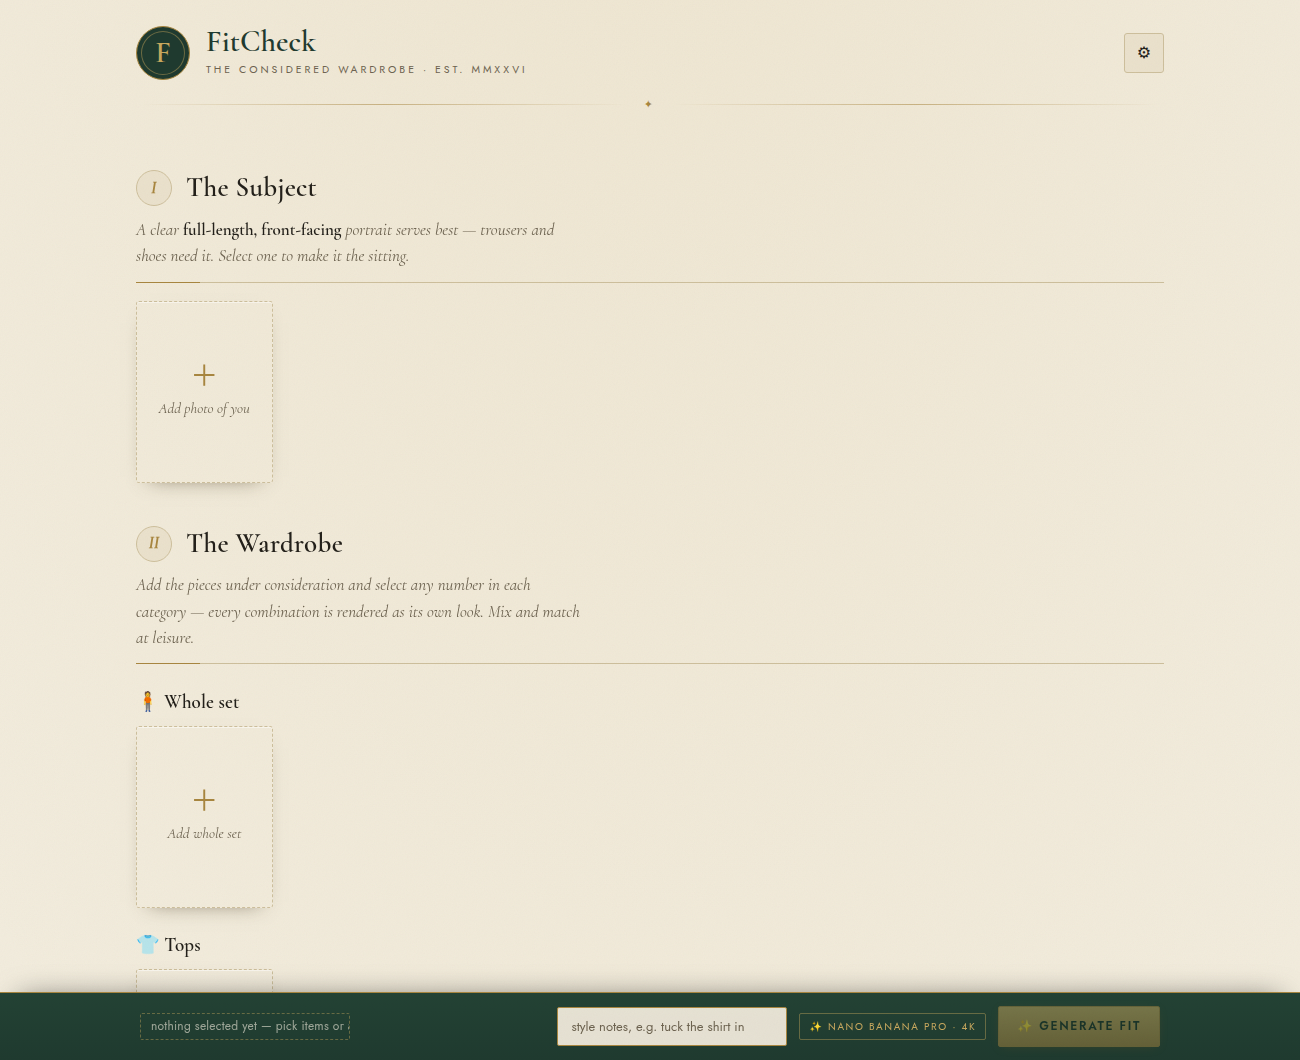
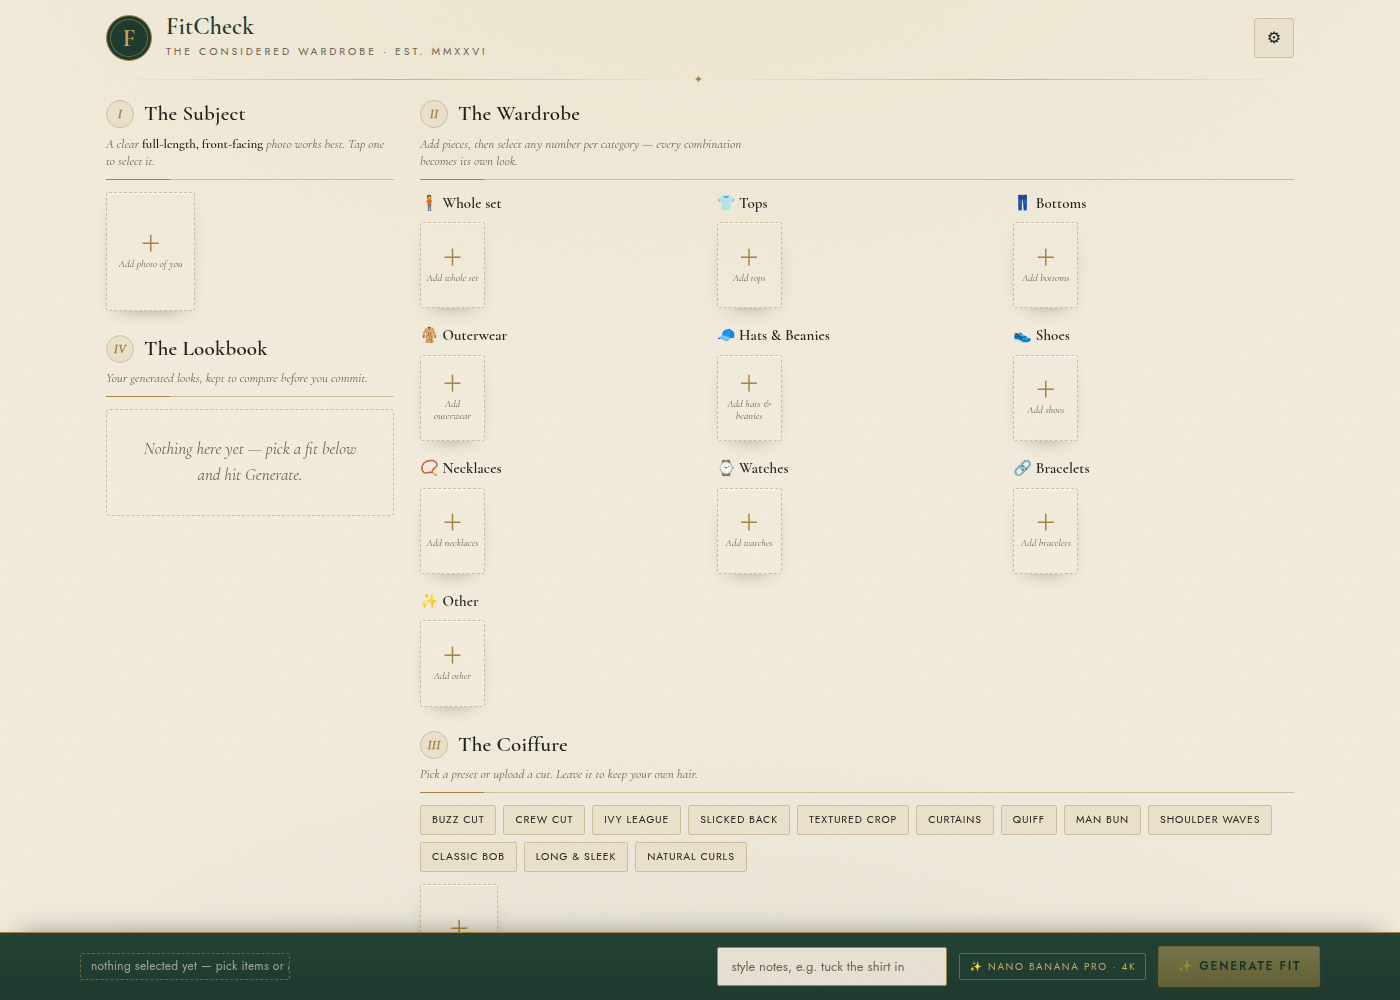
Compact the UI into a two-column dashboard
Everything now fits in roughly one screen instead of ~5:
- Two-column layout: left rail (Subject + Lookbook) beside a wider board
  (Wardrobe + Coiffure); stacks to one column under 900px, keeping the
  I->II->III->IV workflow order via flex order + display:contents.
- Wardrobe's 9 categories flow in a multi-column grid rather than stacking;
  smaller tiles, tighter spacing, smaller header/section headings/hints.
- Regenerated the README hero to match.

Claude-Session: https://claude.ai/code/session_01SWbWfnCS8gif7zMxp3UMgc

diff --git a/style.css b/style.css
@@ -45,18 +45,18 @@ strong { font-weight: 600; color: var(--ink); }
 /* ---------- top bar ---------- */
 .topbar {
   display: flex; align-items: center; justify-content: space-between;
-  padding: 26px 26px 12px; max-width: 1080px; margin: 0 auto;
+  padding: 15px 26px 8px; max-width: 1240px; margin: 0 auto;
 }
-.brand { display: flex; align-items: center; gap: 16px; }
+.brand { display: flex; align-items: center; gap: 14px; }
 .crest {
-  width: 54px; height: 54px; border-radius: 50%;
+  width: 46px; height: 46px; border-radius: 50%;
   display: grid; place-items: center;
-  font-family: var(--serif); font-weight: 600; font-size: 30px;
+  font-family: var(--serif); font-weight: 600; font-size: 25px;
   color: var(--gold-br); background: var(--green);
   border: 1px solid var(--gold);
-  box-shadow: inset 0 0 0 4px var(--green), inset 0 0 0 5px rgba(201,169,94,.45);
+  box-shadow: inset 0 0 0 3px var(--green), inset 0 0 0 4px rgba(201,169,94,.45);
 }
-.wordmark h1 { font-size: 30px; color: var(--green); font-weight: 600; line-height: 1; }
+.wordmark h1 { font-size: 24px; color: var(--green); font-weight: 600; line-height: 1; }
 .tagline {
   margin: 5px 0 0; color: var(--ink-soft);
   font-size: 10.5px; text-transform: uppercase; letter-spacing: .28em; font-weight: 400;
@@ -72,7 +72,7 @@ strong { font-weight: 600; color: var(--ink); }
 
 /* ---------- decorative rule ---------- */
 .rule-band {
-  max-width: 1080px; margin: 4px auto 6px; padding: 0 30px;
+  max-width: 1240px; margin: 2px auto 4px; padding: 0 30px;
   display: flex; align-items: center; gap: 16px;
 }
 .rule-band::before, .rule-band::after {
@@ -91,24 +91,26 @@ strong { font-weight: 600; color: var(--ink); }
 }
 .hidden { display: none !important; }
 
-/* ---------- sections ---------- */
-main { max-width: 1080px; margin: 0 auto; padding: 8px 26px; }
-section { margin: 40px 0; }
-.sec-head { margin-bottom: 18px; padding-bottom: 12px; border-bottom: 1px solid var(--line); position: relative; }
+/* ---------- layout ---------- */
+main { max-width: 1240px; margin: 0 auto; padding: 6px 26px; display: flex; gap: 26px; align-items: flex-start; }
+.rail { width: 288px; flex: none; display: flex; flex-direction: column; gap: 22px; }
+.board { flex: 1; min-width: 0; display: flex; flex-direction: column; gap: 22px; }
+section { margin: 0; }
+.sec-head { margin-bottom: 12px; padding-bottom: 8px; border-bottom: 1px solid var(--line); position: relative; }
 .sec-head::after { content: ''; position: absolute; left: 0; bottom: -1px; width: 64px; height: 1px; background: var(--gold); }
-.sec-head h2 { font-size: 27px; color: var(--ink); display: flex; align-items: center; gap: 14px; letter-spacing: .01em; }
+.sec-head h2 { font-size: 21px; color: var(--ink); display: flex; align-items: center; gap: 10px; letter-spacing: .01em; }
 .step {
-  font-family: var(--serif); font-style: italic; font-weight: 600; font-size: 16px;
+  font-family: var(--serif); font-style: italic; font-weight: 600; font-size: 13px;
   color: var(--gold); background: var(--paper-2);
   border: 1px solid var(--line); border-radius: 50%;
-  min-width: 36px; height: 36px; padding: 0 5px;
+  min-width: 28px; height: 28px; padding: 0 5px;
   display: inline-grid; place-items: center;
 }
-.hint { color: var(--ink-soft); font-family: var(--serif); font-style: italic; font-size: 17px; margin: 8px 0 0; max-width: 60ch; }
+.hint { color: var(--ink-soft); font-family: var(--serif); font-style: italic; font-size: 13px; margin: 5px 0 0; max-width: 62ch; line-height: 1.35; }
 .hint strong { font-style: normal; }
 
 /* ---------- grids & tiles ---------- */
-.grid { display: grid; gap: 12px; grid-template-columns: repeat(auto-fill, minmax(122px, 1fr)); }
+.grid { display: grid; gap: 10px; grid-template-columns: repeat(auto-fill, minmax(88px, 1fr)); }
 .tile {
   position: relative; padding: 0;
   background: var(--paper-2); border: 1px solid var(--line);
@@ -136,40 +138,42 @@ section { margin: 40px 0; }
 .tile .del.armed { background: var(--wine); }
 .tile .name {
   position: absolute; left: 0; right: 0; bottom: 0;
-  padding: 16px 9px 7px; font-family: var(--serif); font-style: italic; font-size: 13.5px; color: var(--paper);
+  padding: 12px 6px 5px; font-family: var(--serif); font-style: italic; font-size: 11px; color: var(--paper);
   background: linear-gradient(transparent, rgba(21,26,20,.82));
   white-space: nowrap; overflow: hidden; text-overflow: ellipsis; text-align: left;
 }
 .tile.add {
   border-style: dashed; border-color: var(--line); background: transparent;
-  color: var(--ink-soft); display: flex; flex-direction: column; align-items: center; justify-content: center; gap: 6px;
-  font-family: var(--serif); font-style: italic; font-size: 15px;
+  color: var(--ink-soft); display: flex; flex-direction: column; align-items: center; justify-content: center; gap: 3px;
+  font-family: var(--serif); font-style: italic; font-size: 10.5px; line-height: 1.15; text-align: center; padding: 4px;
 }
 .tile.add:hover { color: var(--green); border-color: var(--gold); }
-.tile.add .plus { font-size: 28px; line-height: 1; font-style: normal; color: var(--gold); }
+.tile.add .plus { font-size: 22px; line-height: 1; font-style: normal; color: var(--gold); }
 
 /* ---------- categories ---------- */
-.cat { margin: 22px 0; }
-.cat-head { display: flex; align-items: baseline; gap: 10px; margin-bottom: 10px; }
-.cat-head h3 { font-size: 19px; color: var(--ink); font-weight: 600; }
+#categories { display: grid; grid-template-columns: repeat(auto-fill, minmax(212px, 1fr)); gap: 16px; }
+.cat { margin: 0; }
+.cat .grid { grid-template-columns: repeat(auto-fill, minmax(62px, 1fr)); gap: 7px; }
+.cat-head { display: flex; align-items: baseline; gap: 8px; margin-bottom: 7px; }
+.cat-head h3 { font-size: 15px; color: var(--ink); font-weight: 600; }
 .cat-head .count, .cat-head .picked { font-family: var(--sans); font-size: 10.5px; text-transform: uppercase; letter-spacing: .16em; }
 .cat-head .count { color: var(--ink-soft); }
 .cat-head .picked { color: var(--gold); margin-left: auto; }
 
 /* ---------- hair ---------- */
-.hair-presets { display: flex; flex-wrap: wrap; gap: 8px; margin-bottom: 16px; }
+.hair-presets { display: flex; flex-wrap: wrap; gap: 7px; margin-bottom: 12px; }
 .hair-preset {
   background: var(--paper-2); border: 1px solid var(--line); color: var(--ink);
-  border-radius: 2px; padding: 8px 14px;
-  font-family: var(--sans); font-size: 11.5px; letter-spacing: .1em; text-transform: uppercase;
+  border-radius: 2px; padding: 6px 11px;
+  font-family: var(--sans); font-size: 10.5px; letter-spacing: .08em; text-transform: uppercase;
   transition: border-color .2s, background .2s, color .2s;
 }
 .hair-preset:hover { border-color: var(--gold); }
 .hair-preset.selected { background: var(--green); color: var(--gold-br); border-color: var(--green-deep); }
-#hair-grid { grid-template-columns: repeat(auto-fill, minmax(122px, 1fr)); }
+#hair-grid { grid-template-columns: repeat(auto-fill, minmax(76px, 1fr)); }
 
 /* ---------- lookbook ---------- */
-.grid.looks { grid-template-columns: repeat(auto-fill, minmax(154px, 1fr)); }
+.grid.looks { grid-template-columns: repeat(auto-fill, minmax(92px, 1fr)); }
 .look-tile { cursor: pointer; }
 .look-tile .name { font-size: 12px; }
 .empty {
@@ -197,7 +201,7 @@ section { margin: 40px 0; }
   padding: 13px 20px calc(13px + env(safe-area-inset-bottom));
   box-shadow: 0 -12px 30px -20px rgba(0,0,0,.6);
 }
-.outfit-inner { max-width: 1020px; margin: 0 auto; display: flex; align-items: center; gap: 12px; flex-wrap: wrap; }
+.outfit-inner { max-width: 1240px; margin: 0 auto; display: flex; align-items: center; gap: 12px; flex-wrap: wrap; }
 .chips { display: flex; gap: 7px; flex-wrap: wrap; flex: 1; min-width: 180px; }
 .chip {
   background: var(--paper-2); border: 1px solid var(--line); color: var(--ink);
@@ -293,14 +297,28 @@ section { margin: 40px 0; }
 @keyframes pop { from { opacity: 0; transform: translateY(8px); } }
 
 /* ---------- responsive ---------- */
+/* stack the rail + board into one column, keeping the I→II→III→IV workflow order */
+@media (max-width: 900px) {
+  main { flex-direction: column; gap: 20px; align-items: stretch; }
+  .rail, .board { display: contents; }
+  #you-section { order: 1; }
+  #wardrobe-section { order: 2; }
+  #hair-section { order: 3; }
+  #lookbook-section { order: 4; }
+  #categories { grid-template-columns: repeat(auto-fill, minmax(198px, 1fr)); }
+  .grid { grid-template-columns: repeat(auto-fill, minmax(96px, 1fr)); }
+  .grid.looks { grid-template-columns: repeat(auto-fill, minmax(118px, 1fr)); }
+}
 @media (max-width: 560px) {
   body { padding-bottom: 172px; }
-  .topbar { padding: 20px 18px 10px; }
-  .wordmark h1 { font-size: 25px; }
-  main { padding: 8px 18px; }
-  .sec-head h2 { font-size: 23px; }
-  .grid { grid-template-columns: repeat(auto-fill, minmax(98px, 1fr)); }
-  .grid.looks { grid-template-columns: repeat(auto-fill, minmax(124px, 1fr)); }
+  .topbar { padding: 14px 16px 8px; }
+  .wordmark h1 { font-size: 22px; }
+  main { padding: 6px 16px; }
+  .sec-head h2 { font-size: 19px; }
+  #categories { grid-template-columns: 1fr; }
+  .cat .grid { grid-template-columns: repeat(auto-fill, minmax(72px, 1fr)); }
+  .grid { grid-template-columns: repeat(auto-fill, minmax(88px, 1fr)); }
+  .grid.looks { grid-template-columns: repeat(auto-fill, minmax(108px, 1fr)); }
   .notes { width: 100%; order: 2; }
   .outfit-inner .btn.primary { order: 3; flex: 1; }
   .tile .del { opacity: 1; }

diff --git a/index.html b/index.html
@@ -31,38 +31,42 @@
 </div>
 
 <main>
-  <section id="you-section" class="reveal">
-    <header class="sec-head">
-      <h2><span class="step">I</span> The Subject</h2>
-      <p class="hint">A clear <strong>full-length, front-facing</strong> portrait serves best — trousers and shoes need it. Select one to make it the sitting.</p>
-    </header>
-    <div class="grid" id="photos-grid"></div>
-  </section>
+  <aside class="rail">
+    <section id="you-section" class="reveal">
+      <header class="sec-head">
+        <h2><span class="step">I</span> The Subject</h2>
+        <p class="hint">A clear <strong>full-length, front-facing</strong> photo works best. Tap one to select it.</p>
+      </header>
+      <div class="grid" id="photos-grid"></div>
+    </section>
 
-  <section id="wardrobe-section" class="reveal">
-    <header class="sec-head">
-      <h2><span class="step">II</span> The Wardrobe</h2>
-      <p class="hint">Add the pieces under consideration and select any number in each category — every combination is rendered as its own look. Mix and match at leisure.</p>
-    </header>
-    <div id="categories"></div>
-  </section>
+    <section id="lookbook-section" class="reveal">
+      <header class="sec-head">
+        <h2><span class="step">IV</span> The Lookbook</h2>
+        <p class="hint">Your generated looks, kept to compare before you commit.</p>
+      </header>
+      <div class="grid looks" id="looks-grid"></div>
+    </section>
+  </aside>
 
-  <section id="hair-section" class="reveal">
-    <header class="sec-head">
-      <h2><span class="step">III</span> The Coiffure</h2>
-      <p class="hint">Try a new cut — choose a preset below, or bring your own reference photograph of a hairstyle. Touch nothing to keep your own.</p>
-    </header>
-    <div class="hair-presets" id="hair-presets"></div>
-    <div class="grid" id="hair-grid"></div>
-  </section>
+  <div class="board">
+    <section id="wardrobe-section" class="reveal">
+      <header class="sec-head">
+        <h2><span class="step">II</span> The Wardrobe</h2>
+        <p class="hint">Add pieces, then select any number per category — every combination becomes its own look.</p>
+      </header>
+      <div id="categories"></div>
+    </section>
 
-  <section id="lookbook-section" class="reveal">
-    <header class="sec-head">
-      <h2><span class="step">IV</span> The Lookbook</h2>
-      <p class="hint">Every rendering is kept here, that you might compare before you commit.</p>
-    </header>
-    <div class="grid looks" id="looks-grid"></div>
-  </section>
+    <section id="hair-section" class="reveal">
+      <header class="sec-head">
+        <h2><span class="step">III</span> The Coiffure</h2>
+        <p class="hint">Pick a preset or upload a cut. Leave it to keep your own hair.</p>
+      </header>
+      <div class="hair-presets" id="hair-presets"></div>
+      <div class="grid" id="hair-grid"></div>
+    </section>
+  </div>
 </main>
 
 <footer class="outfit-bar" id="outfit-bar"></footer>